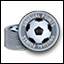
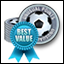
.

diff --git a/SoccerServer/HttpService/MainServicePurchase.cs b/SoccerServer/HttpService/MainServicePurchase.cs
@@ -170,8 +170,8 @@ namespace HttpService
                         description = "Trainer for 3 months",
                         price = 90,
                         title = "Trainer for 3 months",
-                        product_url = "http://canvas.unusualsoccer.com/Imgs/Purchases/PurchaseTrainer_BestValue.png",
-                        image_url = "http://canvas.unusualsoccer.com/Imgs/Purchases/PurchaseTrainer_BestValue.png",
+                        product_url = "http://canvas.unusualsoccer.com/Imgs/Purchases/PurchaseTrainer.png",
+                        image_url = "http://canvas.unusualsoccer.com/Imgs/Purchases/PurchaseTrainer.png",
                         data = ""
                     },
                 new TransferModel.ItemForSale()
@@ -180,8 +180,8 @@ namespace HttpService
                         description = "Trainer forever",
                         price = 130,
                         title = "Trainer forever",
-                        product_url = "http://canvas.unusualsoccer.com/Imgs/Purchases/PurchaseTrainer_BestBuy.png",
-                        image_url = "http://canvas.unusualsoccer.com/Imgs/Purchases/PurchaseTrainer_BestBuy.png",
+                        product_url = "http://canvas.unusualsoccer.com/Imgs/Purchases/PurchaseTrainer_BestValue.png",
+                        image_url = "http://canvas.unusualsoccer.com/Imgs/Purchases/PurchaseTrainer_BestValue.png",
                         data = ""
                     }
             };
